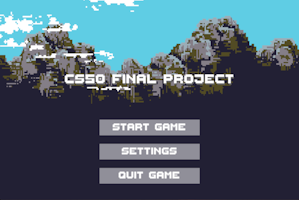
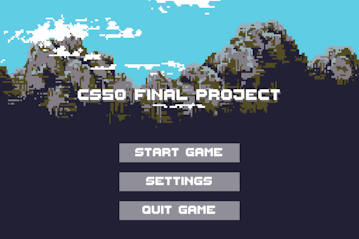
Adjusted image size on README

diff --git a/README.md b/README.md
@@ -16,16 +16,15 @@ Player also can access to the setting state to adjust game volume and enable [FP
 I decided to make a game for my CS50x Final Project because I am very interested in game development. It is also a great opportunity for me to learn new things, like Lua and LOVE2d. I also learnt exciting things like, game engines, game designs, and game genres during my exploration.
 
 # How To Play Game
-1. Download [LÖVE](https://love2d.org/) Engine 
+1. Download [LÖVE](https://love2d.org/)
 1. Download the game file by:<br>- Click the **green** `Code` button above -> `Local` -> `Download ZIP` and **extract** the zip file to any directory on your device<br>**OR**<br>- Execute `git clone https://github.com/xs1128/cs50x-final-project.git` command on the directory you wanted if **git is available**
 1. Run it<br>- Windows : Drag the file to `love.exe` or `lovec.exe` (can be shortcut) inside the `LOVE` folder (From Step 1)<br>- GNU/Linux and macOS : Please refer to [LOVE - Game Distribution](https://love2d.org/wiki/Game_Distribution)
 
 # Rules
 - Player have 3 lives at the start
 - Player should aim to collect all the coins
-- Player should aim to not step on the traps set
-- There are 3 levels now
-- Double jump available
+- Player should aim to not step on traps set
+- There are 3 levels
 
 # Controls
 - Movement -  `Right` and `Left` arrow keys to move horizontally || `Spacebar` to jump vertically ||
